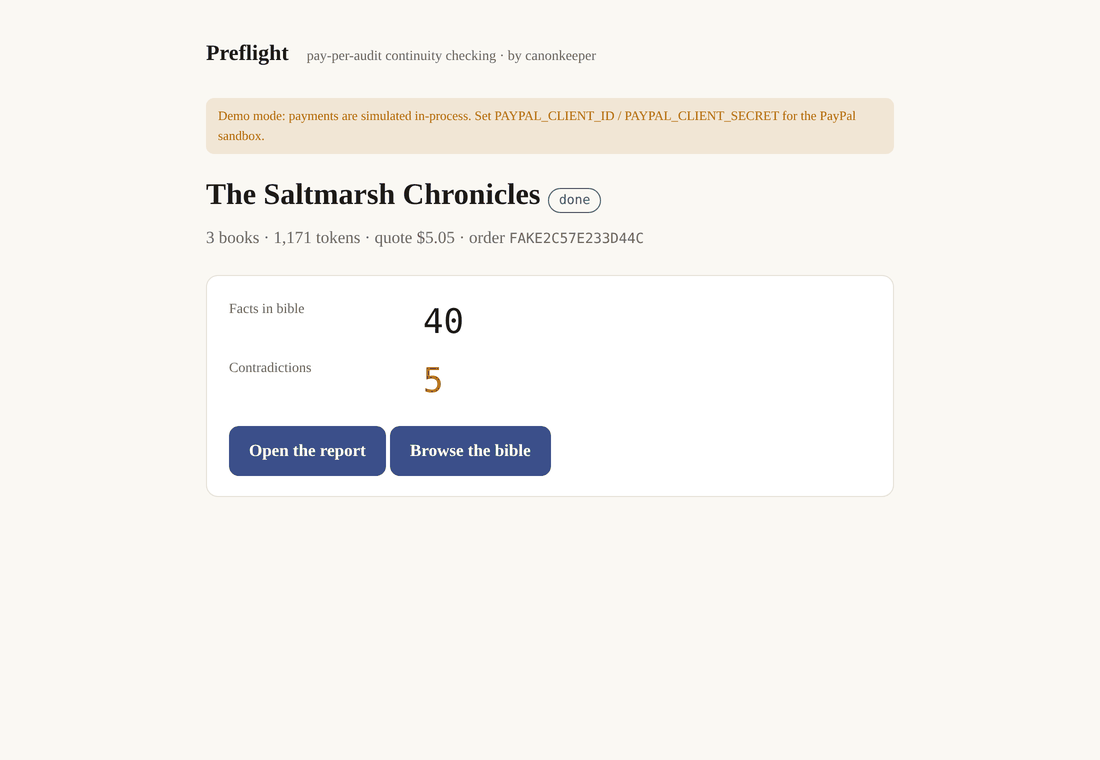
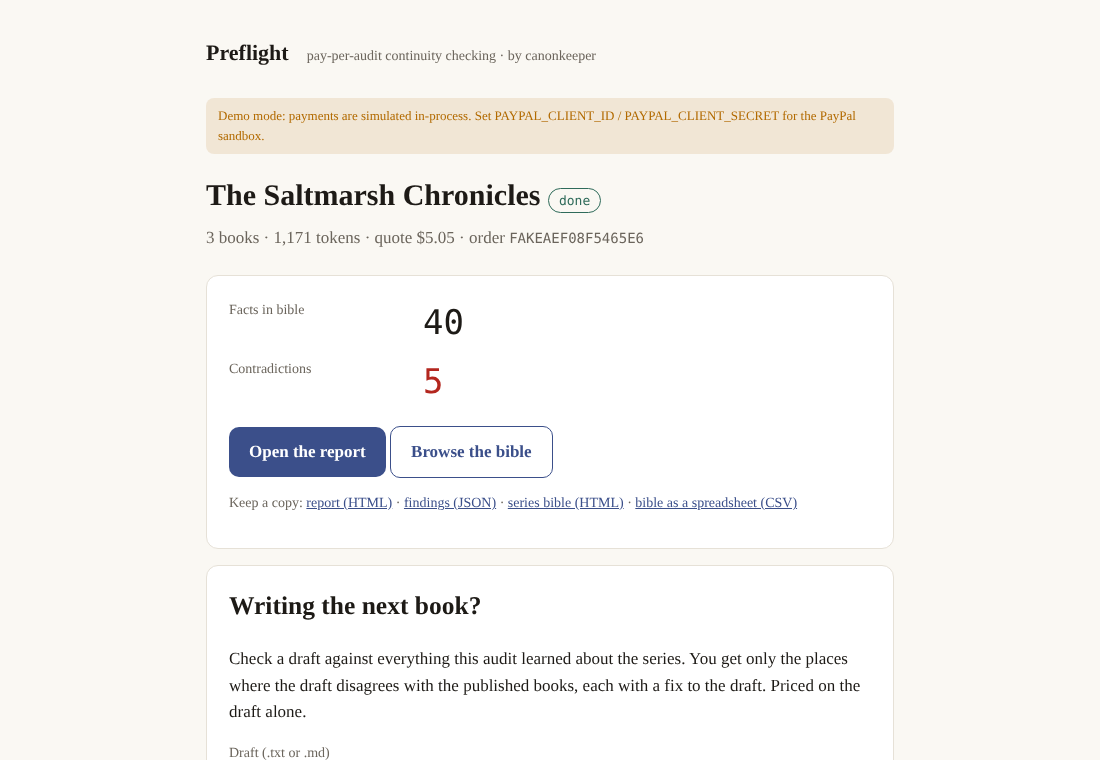
docs: regenerate the Preflight screenshots (script in scripts/preflight_images.py)
Claude-Session: https://claude.ai/code/session_01TyR5Y9n7Q174fE3jXFGa7s

diff --git a/scripts/preflight_images.py b/scripts/preflight_images.py
@@ -1,0 +1,39 @@
+"""Regenerate docs/img/preflight-quote.png and preflight-job.png from a running demo server.
+
+canonkeeper serve --provider mock --port 8787    # demo mode: fake PayPal, rule-based model
+python scripts/preflight_images.py
+"""
+
+import time
+from pathlib import Path
+
+from playwright.sync_api import sync_playwright
+
+ROOT = Path(__file__).resolve().parents[1]
+BASE = "http://127.0.0.1:8787"
+
+
+def main() -> None:
+    with sync_playwright() as p:
+        b = p.chromium.launch()
+        pg = b.new_page(viewport={"width": 1100, "height": 760})
+        pg.goto(BASE)
+        pg.locator("form[action='/quote-demo'] button").click()
+        pg.wait_for_load_state()
+        pg.screenshot(path=str(ROOT / "docs/img/preflight-quote.png"))
+        pg.locator("form[action$='/order'] button").first.click()
+        pg.wait_for_load_state()
+        pg.click("button:has-text('Pay Now')")
+        pg.wait_for_load_state()
+        for _ in range(60):
+            if "Open the report" in pg.content():
+                break
+            time.sleep(1)
+            pg.reload()
+        pg.screenshot(path=str(ROOT / "docs/img/preflight-job.png"))
+        b.close()
+    print("wrote docs/img/preflight-quote.png, docs/img/preflight-job.png")
+
+
+if __name__ == "__main__":
+    main()
